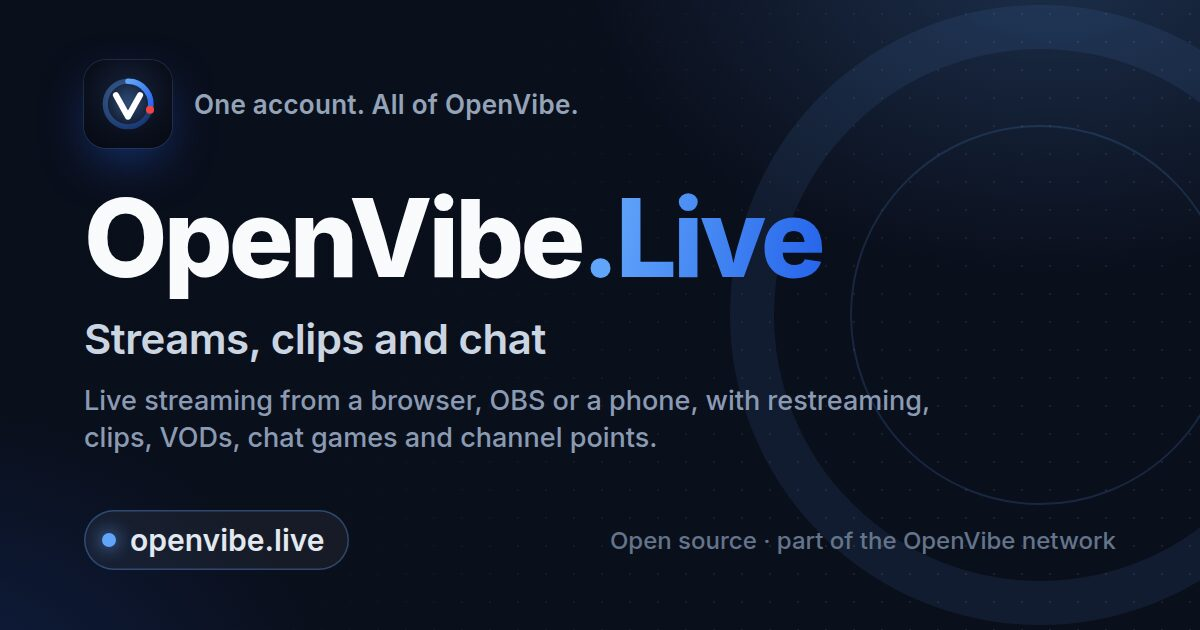
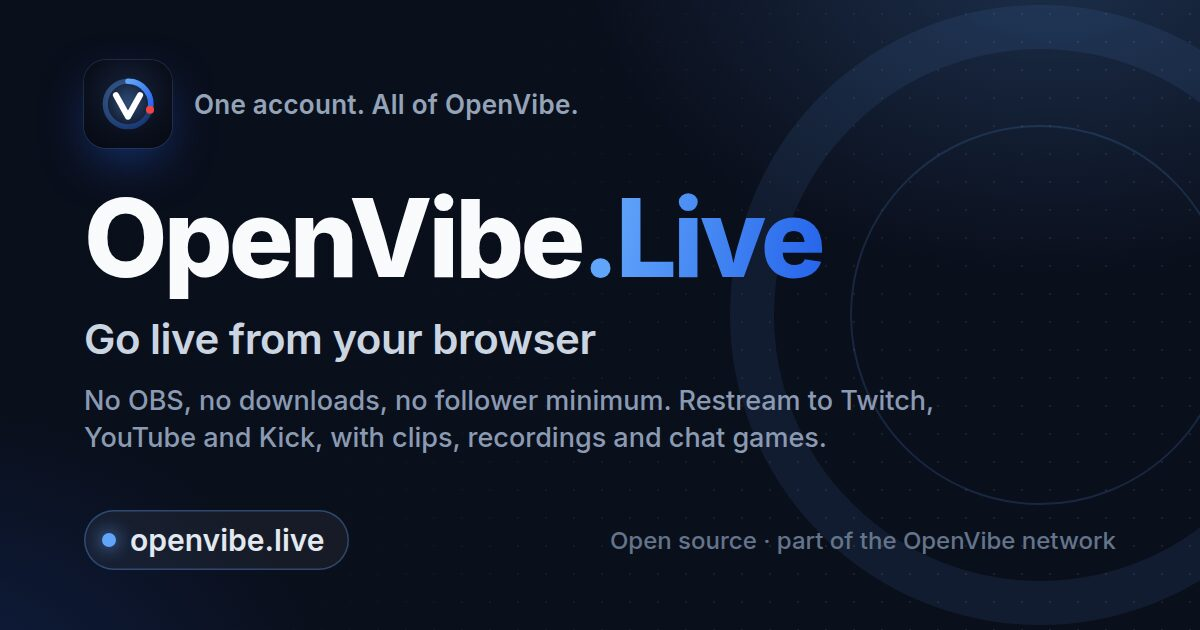
4.6.0: page share cards, and Live's card says go live from your browser (#89)
* 4.6.0: page cards (The Rundown, Content, AI Moments, Chat on Live) and Live's card leading with go live from your browser

* Page cards are listed in openvibe-shared/social (PAGES, pageOf), so app-icons' every-card-is-a-service check skips them

Changed region(s): [[0.0617, 0.6032, 0.7708, 0.7238], [0.0617, 0.5127, 0.4933, 0.573]]

diff --git a/scripts/build-social-cards.js b/scripts/build-social-cards.js
@@ -1,7 +1,9 @@
 #!/usr/bin/env node
 'use strict';
-// Render the share card (og:image, 1200×630 JPEG) of every OpenVibe site into social/<service>.jpg.
+// Render the share card (og:image, 1200×630 JPEG) of every OpenVibe site into social/<service>.jpg, and the page cards
+// (openvibe-shared/social PAGES) into social/<service>-<page>.jpg.
 //   node scripts/build-social-cards.js --contracts <OpenVibe.Contracts checkout> [--chrome <path>] [--only <id,id>]
+// --only takes site ids (a site's page cards come with it) or page card ids.
 // Needs Chrome (the drawing) and ImageMagick's `convert` (PNG → a ~60 KB progressive JPEG).
 // The name, tagline, domain and accent come from each service manifest's `site` block (Contracts is the source of
 // truth; this script only draws them). The mark is openvibe-shared/app-icon. Inter is fetched once from Google Fonts
@@ -51,11 +53,20 @@ async function interFaces() {
 function sites() {
     const dir = path.join(contracts, 'manifests', 'services');
     const out = [];
+    const byId = new Map();
     for (const f of fs.readdirSync(dir).filter((n) => n.endsWith('.json')).sort()) {
         const m = JSON.parse(fs.readFileSync(path.join(dir, f), 'utf8'));
         if (!m.site || !Array.isArray(m.domains) || !m.domains.length) continue;
+        const site = { id: m.id, name: m.site.name, tagline: m.site.tagline, what: m.site.what || '', domain: m.domains[0], accent: social.accentOf(m.id, m.site.accent) };
+        byId.set(m.id, site);
         if (only && !only.has(m.id)) continue;
-        out.push({ id: m.id, name: m.site.name, tagline: m.site.tagline, what: m.site.what || '', domain: m.domains[0], accent: social.accentOf(m.id, m.site.accent) });
+        out.push(site);
+    }
+    for (const pg of social.PAGES) {
+        const site = byId.get(pg.service);
+        if (!site) throw new Error(`page card ${pg.id}: no site ${pg.service} in the manifests`);
+        if (only && !only.has(pg.id) && !only.has(pg.service)) continue;
+        out.push({ ...site, id: pg.id, heading: pg.heading, tagline: pg.tagline, what: pg.what, domain: `${site.domain}${pg.path}`, iconId: site.id });
     }
     return out;
 }
@@ -65,10 +76,12 @@ function card(site, fonts) {
     // The product name after "OpenVibe.", unless the product carries its own name: OpenRestream reads "OpenRe" +
     // "stream" as one word, the way the navbar draws it.
     const own = /^Open(Re)(.+)$/.exec(site.name);
-    const brand = own
+    const siteBrand = own
         ? `<span class="w">Open${own[1]}</span><span class="p">${esc(own[2])}</span>`
         : `<span class="w">OpenVibe</span><span class="d">.</span><span class="p">${esc(site.name)}</span>`;
-    const long = site.name.length > 9;
+    // A page card: the page's name is the headline and the site's brand takes the line beside the mark.
+    const brand = site.heading ? `<span class="p">${esc(site.heading)}</span>` : siteBrand;
+    const long = (site.heading || site.name).length > 9;
     return `<!doctype html><html><head><meta charset="utf-8"><style>
 ${fonts}
 *{margin:0;padding:0;box-sizing:border-box}
@@ -87,6 +100,9 @@ body{font-family:'Inter',sans-serif;color:#f8fafc;background:#0a0f1c;position:re
 .icon{width:88px;height:88px;border-radius:22px;overflow:hidden;box-shadow:0 18px 50px -12px ${a2}88, 0 0 0 1px #ffffff1a}
 .icon svg{width:88px;height:88px;display:block}
 .net{font-size:26px;font-weight:600;color:#94a3b8;letter-spacing:.01em}
+.net.site{font-size:34px;font-weight:800;letter-spacing:-.02em}
+.net.site .w{color:#f8fafc}.net.site .d{color:${a1}}
+.net.site .p{background:linear-gradient(100deg, ${a1}, ${a2});-webkit-background-clip:text;background-clip:text;color:transparent}
 .name{margin-top:36px;font-size:${long ? 92 : 108}px;font-weight:800;letter-spacing:-.035em;line-height:1}
 .name .w{color:#f8fafc}.name .d{color:${a1}}
 .name .p{background:linear-gradient(100deg, ${a1}, ${a2});-webkit-background-clip:text;background-clip:text;color:transparent}
@@ -102,7 +118,7 @@ body{font-family:'Inter',sans-serif;color:#f8fafc;background:#0a0f1c;position:re
 </style></head><body>
 <div class="glow"></div><div class="grid"></div><div class="ring"></div><div class="ring2"></div>
 <div class="wrap">
-  <div class="top"><div class="icon">${icon.svg({ site: social.iconSite(site.id), maskable: false })}</div><div class="net">One account. All of OpenVibe.</div></div>
+  <div class="top"><div class="icon">${icon.svg({ site: social.iconSite(site.iconId || site.id), maskable: false })}</div>${site.heading ? `<div class="net site">${siteBrand}</div>` : '<div class="net">One account. All of OpenVibe.</div>'}</div>
   <div class="name">${brand}</div>
   <div class="tag">${esc(site.tagline)}</div>
   ${site.what ? `<div class="what">${esc(site.what)}</div>` : ''}

diff --git a/social.js b/social.js
@@ -3,7 +3,8 @@
 // openvibe-shared/social — every OpenVibe site's share card (og:image / twitter:image).
 //
 // The cards are 1200×630 JPEGs in social/<service>.jpg, drawn by scripts/build-social-cards.js from the service
-// manifests' `site` blocks (name, tagline, first domain, accent) with the app-icon mark. A site serves its pinned
+// manifests' `site` blocks (name, tagline, first domain, accent) with the app-icon mark; a site's big pages have page
+// cards, social/<service>-<page>.jpg (live-rundown, live-content, …), listed in PAGES below. A site serves its pinned
 // copy at /shared/social/<service>.jpg through openvibe-shared/serve, so a card never depends on another host.
 //
 //   social.has(service)                 is there a card for this service id
@@ -12,6 +13,7 @@
 //   social.path(name)                   the file on disk (throws for anything that is not a card)
 //   social.accentOf(service, accent?)   the two accent stops the card uses (build script)
 //   social.iconSite(service)            the app-icon variant for the service's mark (build script)
+//   social.pageOf(id) / social.PAGES     the page cards: which page and site a card id names (null for a site's card)
 //
 // shell.page() uses social.url(o.service) for og:image when the page names no image of its own.
 // ═══════════════════════════════════════════════════════════════
@@ -34,6 +36,22 @@ function cardPath(name) {
     if (!isCard(name)) throw new Error(`openvibe-shared/social: ${name} is not a share card`);
     return path.join(__dirname, name);
 }
+
+// Page cards (social/<service>-<page>.jpg): a site's big pages, shared on their own, get a card that names the page in
+// place of the site, with the site's brand beside the mark and the page's address in the pill. Drawn by
+// scripts/build-social-cards.js from this list; every other card is a site's.
+const PAGES = [
+    { id: 'live-rundown', service: 'live', heading: 'The Rundown', path: '/rundown', tagline: 'What streamers talked about',
+        what: "Topics, takes and episodes from OpenVibe.Live streams, in the streamers' own words, with a link to every moment." },
+    { id: 'live-content', service: 'live', heading: 'Content', path: '/content', tagline: 'Recordings, clips and pastes',
+        what: 'What people made on OpenVibe.Live: recorded streams, the moments viewers clipped, and the code and notes they shared.' },
+    { id: 'live-moments', service: 'live', heading: 'AI Moments', path: '/moments', tagline: 'Highlights the AI picked',
+        what: 'Auto-clips of the moments chat erupted, standout frames and after-show recaps, each one labelled AI-made.' },
+    { id: 'live-chat', service: 'live', heading: 'Chat', path: '/chat', tagline: 'The global chat room',
+        what: 'One chat room for everyone on OpenVibe.Live, across every stream, open to the whole network.' },
+];
+/** The page a card id names ({ id, service, heading, … }), or null for a site's own card. */
+const pageOf = (id) => PAGES.find((pg) => pg.id === id) || null;
 
 const has = (service) => ID_RE.test(String(service || '')) && isCard(`social/${service}.jpg`);
 
@@ -64,4 +82,4 @@ function accentOf(service, accent) {
     return /^#[0-9a-f]{6}$/i.test(accent || '') ? [accent.toLowerCase(), deepen(accent)] : icon.SITES[iconSite(service)].accent;
 }
 
-module.exports = { has, url, isCard, path: cardPath, accentOf, iconSite, DIR };
+module.exports = { has, url, isCard, path: cardPath, accentOf, iconSite, pageOf, PAGES, DIR };

diff --git a/test/social.test.js b/test/social.test.js
@@ -35,6 +35,12 @@ function jpegSize(buf) {
     }
 
     assert.ok(social.has('news') && social.has('openre') && social.has('network'));
+    // Page cards: a site's big pages have their own (scripts/build-social-cards.js PAGES), named <service>-<page>.
+    assert.deepStrictEqual(social.PAGES.map((pg) => pg.id), ['live-rundown', 'live-content', 'live-moments', 'live-chat']);
+    assert.strictEqual(social.pageOf('live-rundown').service, 'live');
+    assert.strictEqual(social.pageOf('live'), null, 'a site card is no page card');
+    for (const pg of social.PAGES) assert.ok(social.has(pg.service), `${pg.id}: its site has a card`);
+    for (const id of ['live-rundown', 'live-content', 'live-moments', 'live-chat']) assert.match(social.url(id), new RegExp(`^/shared/social/${id}\\.jpg\\?v=[0-9a-f]{12}$`), id);
     assert.ok(!social.has('nope') && !social.has('../news') && !social.has('') && !social.has(null));
     assert.match(social.url('news'), /^\/shared\/social\/news\.jpg\?v=[0-9a-f]{12}$/);
     assert.match(social.url('news', 'https://cdn.example/s/'), /^https:\/\/cdn\.example\/s\/social\/news\.jpg\?v=/);

diff --git a/test/app-icons.test.js b/test/app-icons.test.js
@@ -20,7 +20,8 @@ function pngSize(buf) {
 
 (async () => {
     // Every service with a share card has its four icons, valid PNGs of the right size.
-    const services = fs.readdirSync(social.DIR).filter((f) => f.endsWith('.jpg')).map((f) => f.slice(0, -4)).sort();
+    // A page card (live-rundown, …) belongs to its site, which has the icons.
+    const services = fs.readdirSync(social.DIR).filter((f) => f.endsWith('.jpg')).map((f) => f.slice(0, -4)).filter((id) => !social.pageOf(id)).sort();
     assert.ok(services.length >= 30, `a card for every site (${services.length})`);
     const variants = new Set();
     for (const service of services) {

diff --git a/CHANGELOG.md b/CHANGELOG.md
@@ -4,6 +4,16 @@ All notable changes to `openvibe-shared`. Versions follow [semver](https://semve
 breaking change to any exported module, browser global or served file name is a new major.
 A release is the git tag `vX.Y.Z`; consumers pin the tag's tarball (see README).
 
+## 4.6.0 — 2026-10-20
+
+- **Page cards.** A site's big pages get a share card of their own, `social/<service>-<page>.jpg`, drawn like the site
+  card with the page's name as the headline, the site's brand beside the mark and the page's address in the pill:
+  `live-rundown` (The Rundown), `live-content`, `live-moments` (AI Moments) and `live-chat`. They are listed in
+  `scripts/build-social-cards.js` (`PAGES`); `social.url('live-rundown')` and `/shared/social/live-rundown.jpg` work
+  like a site card. `--only live` renders a site with its page cards.
+- **Live's card re-rendered** from Contracts 0.205.4: "Go live from your browser", with no OBS, no downloads and no
+  follower minimum underneath (it said "Streams, clips and chat").
+
 ## 4.5.0 — 2026-10-20
 
 - **Video sitemaps.** `seo.sitemapXml` takes `videos` on a URL: `{ thumbnail_loc, title, description, content_loc
